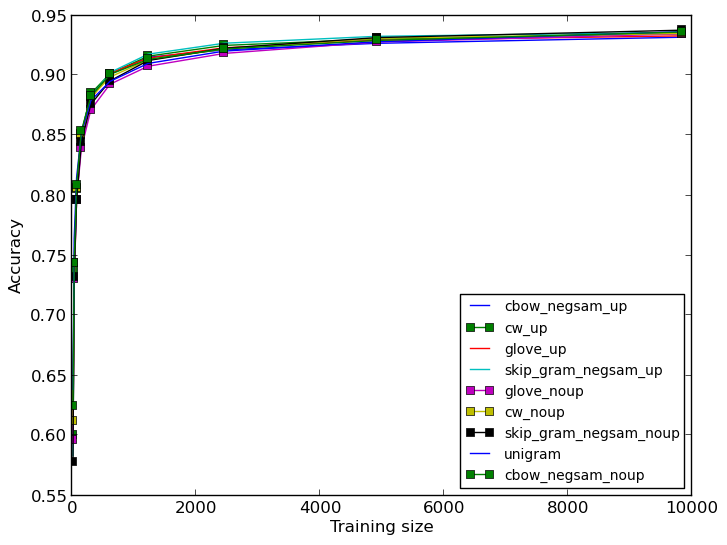
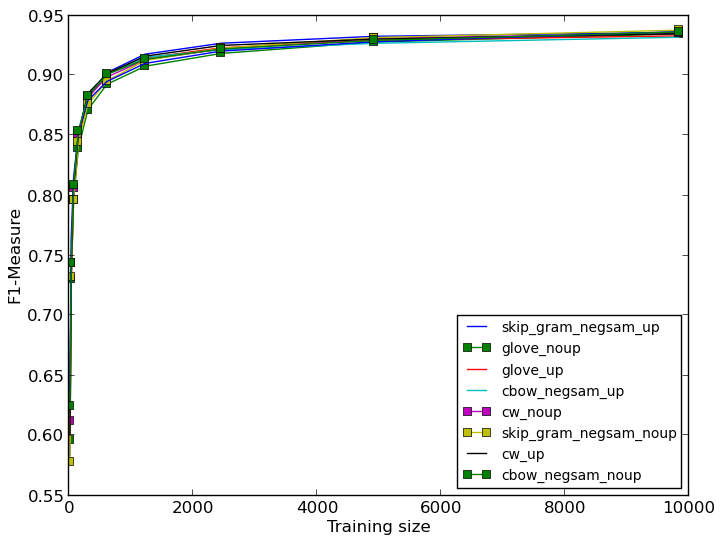
update plots, repair bug in y axis labels

diff --git a/plots/NERoutOfVocIN.py b/plots/NERoutOfVocIN.py
@@ -80,69 +80,75 @@ def sortedWalk(top, topdown=True, onerror=None):
         yield top, dirs, nondirs
 
 
+def returnold(folder):
+    matches = []
+    for root, dirnames, filenames in os.walk(folder):
+        for filename in fnmatch.filter(filenames, '*.*'):
+            matches.append(os.path.join(root, filename))
+    return min(matches, key=os.path.getmtime)
 
 files = sortedWalk(inputfolder)
 
 
 
-#for root, subdirs, files in os.walk(walk_dir):
+for root, subdirs, files in os.walk(walk_dir):
 	#print('--\nroot = ' + root)
-#	for subdir in sorted(subdirs):
-#		print('\t- subdirectory ' + subdir)			
-#	sortfiles = sorted(files)  
-for filename in files:  
-	if filename in alist_filter: 
-		if re.match("unigram_best.txt", filename): label = "unigram"
-		elif re.match("glove_noupdated_best.txt", filename): 
-			marker = noupMarker
-			label = "glove_noup"
-		elif re.match("glove_updated_incretuneparam.txt", filename): label = "glove_up"
-		elif re.match("cbow_negsam_noupdated_best.txt", filename):
-			marker = noupMarker
-			label = "cbow_negsam_noup"
-		elif re.match("cbow_negsam_updated_incretuneparam.txt", filename): label = "cbow_negsam_up"
-		elif re.match("skip_gram_negsam_noupdated_best.txt", filename):
-			marker = noupMarker
-			label = "skip_gram_negsam_noup"
-		elif re.match("skip_gram_negsam_updated_incretuneparam.txt", filename): label = "skip_gram_negsam_up"
-		elif re.match("cw_updated_incretuneparam.txt", filename): label = "cw_up"
-		elif re.match("cw_noupdated_best.txt", filename):
-			marker = noupMarker
-			label = "cw_noup"
-		elif re.match("brown_cluster_v4000_best.txt", filename): label = "brown_cluster"
-		filePath = os.path.join(root, filename)
-		print('\t- file %s (full path: %s)' % (filename, filePath))
-		with open(filePath, 'rb') as f:
-		        lines = f.readlines()
-			f.close	
-			# check the column title
-			titleLine = lines[0]
-			t = titleLine.split()				
-			print('column title:', t[2])		# IN DOMAIN CONLL_out-of-vocabulary_Accuracy
-			print('column title 2:', t[29])		# OUT OF DOMAIN MUC_out-of-vocabulary_Accuracy
-			# skip the first row with the titles
-			for line in lines[1:]: 
-				p = line.split()	
-				x.append(float(p[0]))				
-				y.append(float(p[2]))
-			# convert to numpy array
-			print('x ', x)						
-			print('y ', y)			
-			print('z', z) 
-			xv = np.array(x)
-			yv = np.array(y)
-			zv = np.array(z)
-			plt.plot(xv, yv, label = label + '_' + t[2].replace('_out-of-vocabulary_Accuracy', ''), linestyle=linestyle, marker=marker)	
-#				plt.plot(xv, zv, label = label + '_' + t[29].replace('_out-of-vocabulary_Accuracy', ''))		
-			x = []
-			y = []
-			z = []
-			xv = []
-			yv = []
-			zv = []
-			label = ''
-			marker = ''
-	
+	for subdir in sorted(subdirs):
+		print('\t- subdirectory ' + subdir)			
+	sortfiles = sorted(files)  
+	for filename in files:  
+		if filename in alist_filter: 
+			if re.match("unigram_best.txt", filename): label = "unigram"
+			elif re.match("glove_noupdated_best.txt", filename): 
+				marker = noupMarker
+				label = "glove_noup"
+			elif re.match("glove_updated_incretuneparam.txt", filename): label = "glove_up"
+			elif re.match("cbow_negsam_noupdated_best.txt", filename):
+				marker = noupMarker
+				label = "cbow_negsam_noup"
+			elif re.match("cbow_negsam_updated_incretuneparam.txt", filename): label = "cbow_negsam_up"
+			elif re.match("skip_gram_negsam_noupdated_best.txt", filename):
+				marker = noupMarker
+				label = "skip_gram_negsam_noup"
+			elif re.match("skip_gram_negsam_updated_incretuneparam.txt", filename): label = "skip_gram_negsam_up"
+			elif re.match("cw_updated_incretuneparam.txt", filename): label = "cw_up"
+			elif re.match("cw_noupdated_best.txt", filename):
+				marker = noupMarker
+				label = "cw_noup"
+			elif re.match("brown_cluster_v4000_best.txt", filename): label = "brown_cluster"
+			filePath = os.path.join(root, filename)
+			print('\t- file %s (full path: %s)' % (filename, filePath))
+			with open(filePath, 'rb') as f:
+			        lines = f.readlines()
+				f.close	
+				# check the column title
+				titleLine = lines[0]
+				t = titleLine.split()				
+				print('column title:', t[2])		# IN DOMAIN CONLL_out-of-vocabulary_Accuracy
+				print('column title 2:', t[29])		# OUT OF DOMAIN MUC_out-of-vocabulary_Accuracy
+				# skip the first row with the titles
+				for line in lines[1:]: 
+					p = line.split()	
+					x.append(float(p[0]))				
+					y.append(float(p[2]))
+				# convert to numpy array
+				print('x ', x)						
+				print('y ', y)			
+#				print('z', z) 
+				xv = np.array(x)
+				yv = np.array(y)
+#				zv = np.array(z)
+				plt.plot(xv, yv, label = label + '_' + t[2].replace('_out-of-vocabulary_Accuracy', ''), linestyle=linestyle, 	marker=marker)	
+	#				plt.plot(xv, zv, label = label + '_' + t[29].replace('_out-of-vocabulary_Accuracy', ''))		
+				x = []
+				y = []
+				z = []
+				xv = []
+				yv = []
+				zv = []
+				label = ''
+				marker = ''
+		
 plt.xlabel('Training size')
 plt.ylabel('F1-Measure')
 

diff --git a/plots/bestChunk.py b/plots/bestChunk.py
@@ -1,14 +1,23 @@
 #!/usr/bin/python
 from pylab import *
-from natsort import natsorted
+from natsort import natsorted, ns
 import re
 import os
 import glob
 import array
+import locale
 import fnmatch
 import numpy as np
 import sys, getopt
 import matplotlib.pyplot as plt
+
+try:
+	from pathlib import PurePath # PurePath is the base object for Paths.
+except ImportError:
+	PurePath = object # To avoid NameErrors.
+	has_pathlib = False
+else:
+	has_pathlib = True
 
 try:
 	opts, args = getopt.getopt(sys.argv[1:],"hi:o:",["ifolder=","ofile=", "title="])
@@ -52,37 +61,34 @@ alist_filter = ['brown_cluster_v4000_best.txt',
 	'skip_gram_negsam_updated_incretuneparam.txt']
 
 walk_dir = inputfolder
+
 for root, subdirs, files in os.walk(walk_dir):
 	#print('--\nroot = ' + root)
 	for subdir in subdirs:
-		print('\t- subdirectory ' + subdir)			
-	for filename in natsorted(files):  		
+		print('\t- subdirectory ' + subdir)	
+	
+	sortfiles = natsorted(files, alg=ns.LOCALE)	
+	for filename in sortfiles:  		
 		if filename in alist_filter:
-			if re.match("unigram_best.txt", filename):
-				label = filename.replace("unigram_best.txt", "unigram") 
+			if re.match("unigram_best.txt", filename): "unigram" 
 			if re.match("glove_noupdated_best.txt", filename):
 				marker = noupMarker
-				label = filename.replace("glove_noupdated_best.txt", "glove_noup")
+				label = "glove_noup"
 			if re.match("glove_updated_incretuneparam.txt", filename):					
-				label = filename.replace("glove_updated_incretuneparam.txt", "glove_up")
+				label = "glove_up"
 			elif re.match("cbow_negsam_noupdated_best.txt", filename):
 				marker = noupMarker
-				label = filename.replace("cbow_negsam_noupdated_best.txt", "cbow_negsam_noup")
-			elif re.match("cbow_negsam_updated_incretuneparam.txt", filename):
-				label = filename.replace("cbow_negsam_updated_incretuneparam.txt", "cbow_negsam_up") 
+				label = "cbow_negsam_noup"
+			elif re.match("cbow_negsam_updated_incretuneparam.txt", filename): label = "cbow_negsam_up"
 			elif re.match("skip_gram_negsam_noupdated_best.txt", filename):
 				marker = noupMarker
-				label = filename.replace("skip_gram_negsam_noupdated_best.txt", "skip_gram_negsam_noup")
-			elif re.match("skip_gram_negsam_updated_incretuneparam.txt", filename):
-				label = filename.replace("skip_gram_negsam_updated_incretuneparam.txt", "skip_gram_negsam_up")
-			elif re.match("cw_updated_incretuneparam.txt", filename):
-				marker = noupMarker
-				label = filename.replace("cw_updated_incretuneparam.txt", "cw_up")
+				label = "skip_gram_negsam_noup"
+			elif re.match("skip_gram_negsam_updated_incretuneparam.txt", filename): label = "skip_gram_negsam_up"
+			elif re.match("cw_updated_incretuneparam.txt", filename): label =  "cw_up"
 			elif re.match("cw_noupdated_best.txt", filename):
 				marker = noupMarker
-				label = filename.replace("cw_noupdated_best.txt", "cw_noup")		
-			elif re.match("brown_cluster_v4000_best.txt", filename):
-				label = filename.replace("brown_cluster_v4000_best.txt", "brown_cluster")
+				label = "cw_noup"
+			elif re.match("brown_cluster_v4000_best.txt", filename): label = "brown_cluster"
 	
 			filePath = os.path.join(root, filename)
 			print('\t- file %s (full path: %s)' % (filename, filePath))
@@ -97,7 +103,7 @@ for root, subdirs, files in os.walk(walk_dir):
 				for line in lines[1:]: 
 					p = line.split()	
 					x.append(float(p[0]))				
-					y.append(float(p[32]))
+					y.append(float(p[32]))   # AG
 				# convert to numpy array
 				print('x ', x)						
 				print('y ', y)			
@@ -112,7 +118,7 @@ for root, subdirs, files in os.walk(walk_dir):
 				marker = ''
 
 plt.xlabel('Training size')
-plt.ylabel('Accuracy')
+plt.ylabel('F1-Measure')
 
 plt.rcParams.update(legParams)
 plt.legend(loc='lower right')

diff --git a/plots/bestMWE.py b/plots/bestMWE.py
@@ -59,31 +59,26 @@ for root, subdirs, files in os.walk(walk_dir):
 		print('\t- subdirectory ' + subdir)			
 	for filename in natsorted(files):  		
 		if filename in alist_filter: 
-			if re.match("unigram_best.txt", filename):
-				label = filename.replace("unigram_best.txt", "unigram")
+			if re.match("unigram_best.txt", filename): label = "unigram"
 			if re.match("glove_noupdated_best.txt", filename):
 				marker = noupMarker
-				label = filename.replace("glove_noupdated_best.txt", "glove_noup")
-			if re.match("glove_updated_best.txt", filename):					
-				label = filename.replace("glove_updated_best.txt", "glove_up")
+				label = "glove_noup"
+			if re.match("glove_updated_best.txt", filename): label = "glove_up"
 			elif re.match("cbow_noupdated_best.txt", filename):
 				marker = noupMarker
-				label = filename.replace("cbow_noupdated_best.txt", "cbow_noup")
-			elif re.match("cbow_updated_best.txt", filename):
-				label = filename.replace("cbow_updated_best.txt", "cbow_up") 
+				label = "cbow_noup"
+			elif re.match("cbow_updated_best.txt", filename): label = "cbow_up"
 			elif re.match("skipgram_noupdated_best.txt", filename):
 				marker = noupMarker
-				label = filename.replace("skipgram_noupdated_best.txt", "skip_gram_noup")
-			elif re.match("skipgram_updated_best.txt", filename):
-				label = filename.replace("skipgram_updated_best.txt", "skip_gram_up")
+				label = "skip_gram_noup"
+			elif re.match("skipgram_updated_best.txt", filename): label = "skip_gram_up"
 			elif re.match("cw_updated_best.txt", filename):
 				marker = noupMarker
-				label = filename.replace("cw_updated_best.txt", "cw_up")
+				label = "cw_up"
 			elif re.match("cw_noupdated_best.txt", filename):
 				marker = noupMarker
-				label = filename.replace("cw_noupdated_best.txt", "cw_noup")		
-			elif re.match("brown_cluster_v4000_best.txt", filename):
-				label = filename.replace("brown_cluster_v4000_best.txt", "brown_cluster")	
+				label = "cw_noup"
+			elif re.match("brown_cluster_v4000_best.txt", filename): label = "brown_cluster
 			filePath = os.path.join(root, filename)
 			print('\t- file %s (full path: %s)' % (filename, filePath))
 			with open(filePath, 'rb') as f:
@@ -92,12 +87,12 @@ for root, subdirs, files in os.walk(walk_dir):
 				# check the column title
 				titleLine = lines[0]
 				t = titleLine.split()				
-				print('column title', t[1] )		
+				print('column title', t[17] )		
 				# skip the first row with the titles
 				for line in lines[1:]: 
 					p = line.split()	
 					x.append(float(p[0]))				
-					y.append(float(p[1]))
+					y.append(float(p[17]))   # F1: R
 				# convert to numpy array
 				print('x ', x)						
 				print('y ', y)			
@@ -112,7 +107,7 @@ for root, subdirs, files in os.walk(walk_dir):
 				marker = ''
 	
 plt.xlabel('Training size')
-plt.ylabel('Accuracy')
+plt.ylabel('F1-Measure')
 
 plt.rcParams.update(legParams)
 plt.legend(loc='lower right')

diff --git a/plots/bestNER.py b/plots/bestNER.py
@@ -95,7 +95,7 @@ for root, subdirs, files in os.walk(walk_dir):
 				for line in lines[1:]: 
 					p = line.split()	
 					x.append(float(p[0]))				
-					y.append(float(p[35]))
+					y.append(float(p[35]))   # F1: AJ
 				# convert to numpy array
 				print('x ', x)						
 				print('y ', y)			
